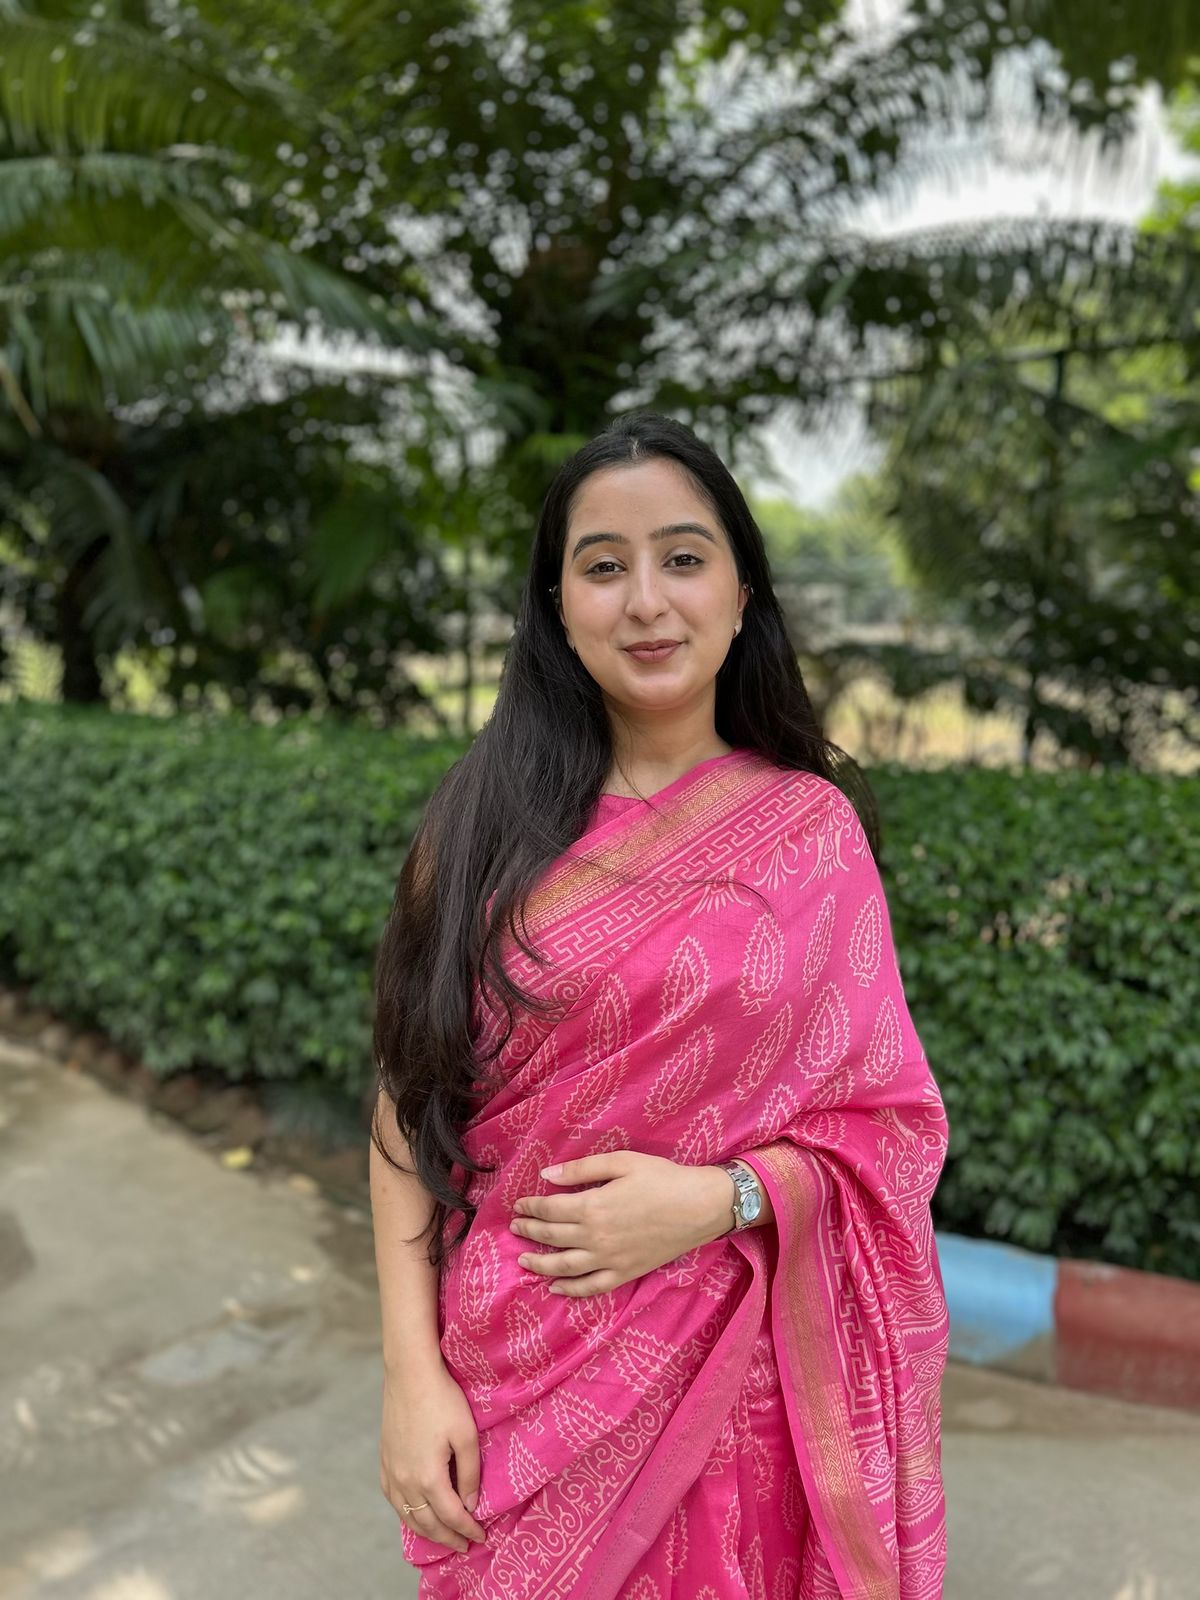
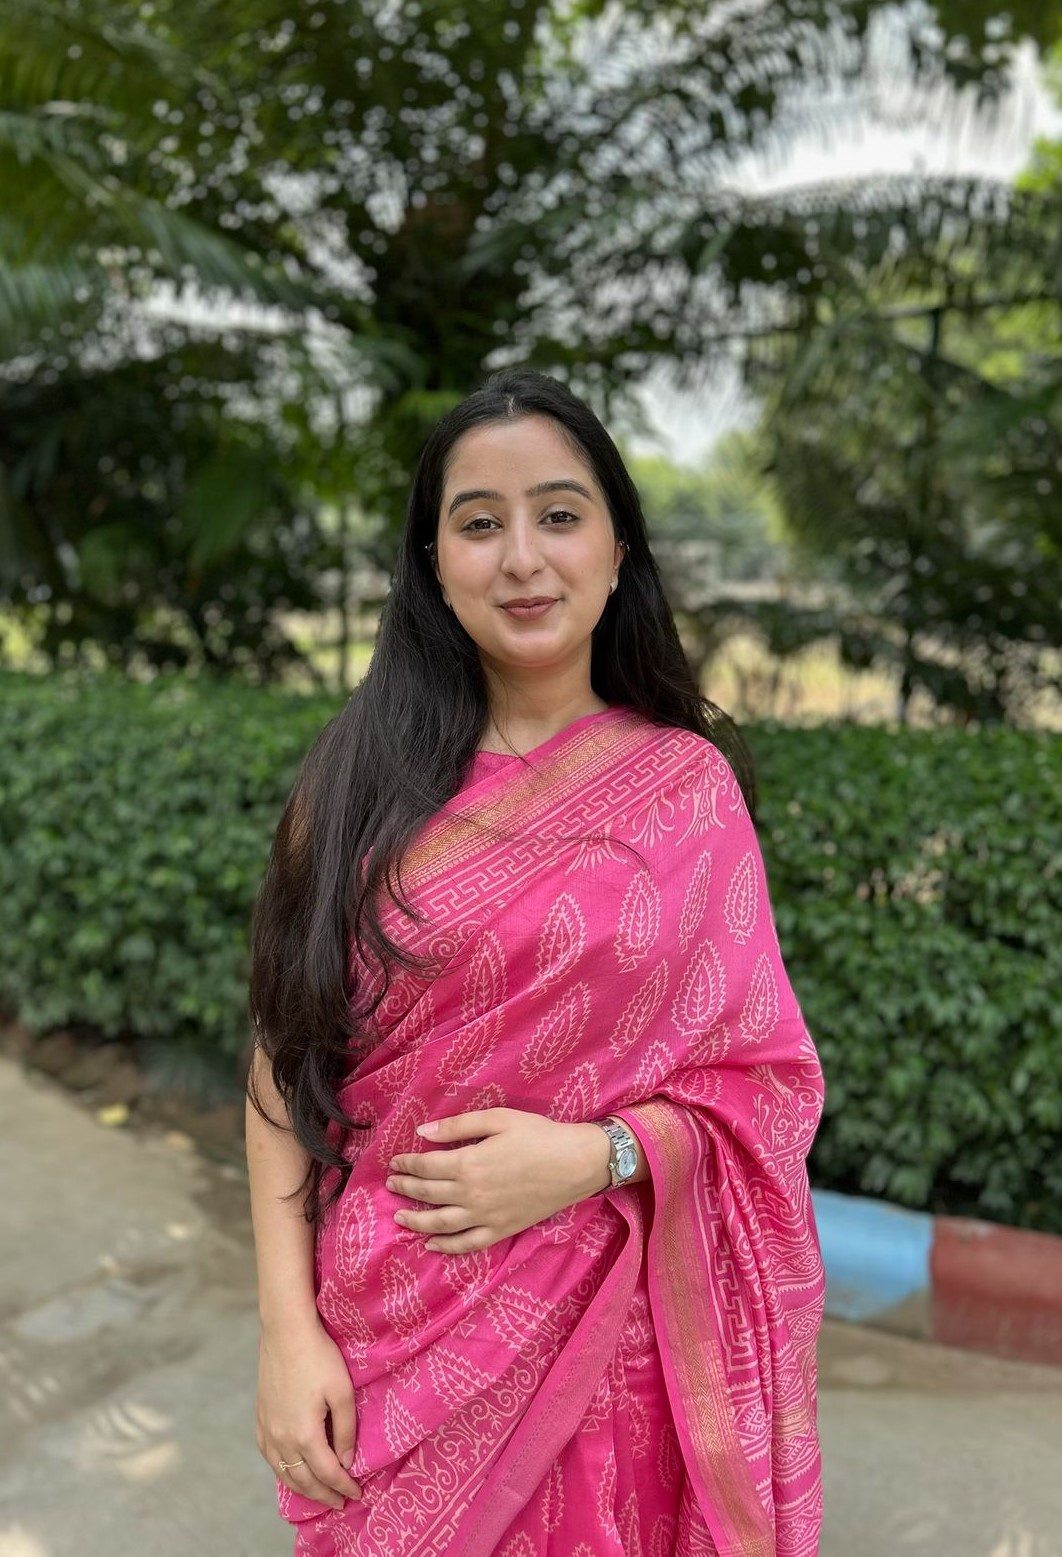
Update fonts (Great Vibes, Cormorant Garamond), imagery, and styling

diff --git a/therapy_with_himanshi/client/src/components/sections/AboutSection.tsx b/therapy_with_himanshi/client/src/components/sections/AboutSection.tsx
@@ -1,6 +1,7 @@
 import { motion } from "framer-motion";
 
 import aboutImage from "@assets/WhatsApp_Image_2025-12-11_at_00.59.14_(1)_1765616014879.jpeg";
+import shiftImage from "@assets/himanshi_1.jpeg";
 
 export function AboutSection() {
 
@@ -11,6 +12,12 @@ export function AboutSection() {
       <div className="container mx-auto px-4 md:px-6">
         {/* Intro Text */}
         <motion.div
+          // ... (omitting unchanged lines for brevity in search match, but usually better to match precise block)
+          // Actually, I'll allow multiple replacements in one go or just do two chunks.
+          // Re-reading 'replace_file_content' documentation. I can't do multiple chunks with 'replace_file_content'.
+          // I should use 'multi_replace_file_content' if I need to change the import AND the usage, as they are far apart.
+          // Import is at line 3. Usage is at line 47.
+          // So I will use `multi_replace_file_content`.
           initial={{ opacity: 0, y: 30 }}
           whileInView={{ opacity: 1, y: 0 }}
           viewport={{ once: true }}
@@ -44,7 +51,7 @@ export function AboutSection() {
           >
             <div className="relative aspect-[3/4] rounded-[2rem] overflow-hidden transition-transform duration-500 ease-out">
               <img
-                src={aboutImage}
+                src={shiftImage}
                 alt="Abstract inner landscape"
                 className="w-full h-full object-cover"
               />
@@ -65,7 +72,7 @@ export function AboutSection() {
             viewport={{ once: true }}
             transition={{ duration: 0.8, delay: 0.2 }}
           >
-            <h3 className="font-heading text-3xl md:text-4xl text-foreground">A Space for Shifts</h3>
+            <h3 className="font-display text-4xl md:text-5xl text-foreground">A Space for Shifts</h3>
             <div className="space-y-6 text-lg text-muted-foreground leading-relaxed">
               <p>
                 The intention here is twofold: to offer you a grounded, relational space to understand your inner landscape more deeply, and to support you to make the shifts you've been longing for.
@@ -87,7 +94,7 @@ export function AboutSection() {
             transition={{ duration: 0.8 }}
           >
             <span className="text-primary font-medium tracking-wide uppercase text-sm">About Me</span>
-            <h3 className="font-heading text-3xl md:text-4xl text-foreground">Himanshi Sahni <span className="text-xl text-muted-foreground font-sans font-normal">(she/her)</span></h3>
+            <h3 className="font-display text-4xl md:text-5xl text-foreground">Himanshi Sahni <span className="text-xl text-muted-foreground font-sans font-normal">(she/her)</span></h3>
 
             <div className="space-y-6 text-lg text-muted-foreground leading-relaxed">
               <p>

diff --git a/therapy_with_himanshi/client/src/index.css b/therapy_with_himanshi/client/src/index.css
@@ -1,9 +1,12 @@
+/* Import Lora, Great Vibes, and Cormorant Garamond */
+@import url('https://fonts.googleapis.com/css2?family=Cormorant+Garamond:ital,wght@0,300;0,400;0,500;0,600;0,700;1,300;1,400;1,500;1,600;1,700&family=Great+Vibes&family=Lora:ital,wght@0,400..700;1,400..700&display=swap');
 @import "tailwindcss";
 @import "tw-animate-css";
 
 @custom-variant dark (&:is(.dark *));
 
 @theme inline {
+
   --radius-sm: calc(var(--radius) - 4px);
   --radius-md: calc(var(--radius) - 2px);
   --radius-lg: var(--radius);
@@ -39,7 +42,7 @@
   --color-input: hsl(var(--input));
   --color-ring: hsl(var(--ring));
 
-  --font-sans: 'Lato', sans-serif;
+  --font-sans: 'Lora', serif;
   /* Cleaner, modern body font */
   --font-heading: 'Poppins', sans-serif;
 
@@ -65,8 +68,8 @@
   --popover: 0 0% 100%;
   --popover-foreground: 20 7% 20%;
 
-  /* Primary: User Specified Green - Darker */
-  --primary: 120 29% 13%;
+  /* Primary: User Specified Green - Adjusted Lighter */
+  --primary: 120 29% 25%;
   --primary-foreground: 0 0% 98%;
 
   /* Secondary: Soft Earth/Beige - Natural warmth */
@@ -92,7 +95,7 @@
 
   --radius: 1rem;
 
-  --font-sans: 'Lato', sans-serif;
+  --font-sans: 'Lora', serif;
   --font-heading: 'Poppins', sans-serif;
 }
 
@@ -111,7 +114,8 @@
   }
 
   body {
-    @apply font-sans antialiased bg-background text-foreground transition-colors duration-300;
+    font-family: 'Lora', serif;
+    @apply antialiased bg-background text-foreground transition-colors duration-300;
   }
 
   h1,
@@ -125,6 +129,14 @@
 }
 
 /* Utility classes */
+/* Define local font */
+@font-face {
+  font-family: 'Snell Roundhand';
+  src: url('@/assets/fonts/Snell-BT-Regular.otf') format('opentype');
+  font-weight: normal;
+  font-style: normal;
+}
+
 @layer utilities {
   .bg-gradient-soft {
     background: linear-gradient(180deg, hsl(340, 85%, 95%) 0%, hsl(var(--background)) 100%);
@@ -155,5 +167,13 @@
 
   .shadow-premium {
     box-shadow: 0 10px 30px -10px rgba(0, 0, 0, 0.05), 0 4px 15px -5px rgba(0, 0, 0, 0.02);
+  }
+
+  .font-script {
+    font-family: "Great Vibes", "Snell Roundhand", cursive;
+  }
+
+  .font-display {
+    font-family: "Cormorant Garamond", serif;
   }
 }

diff --git a/therapy_with_himanshi/client/src/components/sections/Hero.tsx b/therapy_with_himanshi/client/src/components/sections/Hero.tsx
@@ -1,31 +1,24 @@
 import { Button } from "@/components/ui/button";
 import { motion } from "framer-motion";
 import { Link } from "wouter";
-import heroBg from "@assets/hero_bg.png";
+
 
 export function Hero() {
 
   return (
     <section className="relative min-h-[calc(100vh-80px)] mt-[80px] flex items-center overflow-hidden">
-      {/* Background image with blur */}
-      <div className="absolute inset-0 w-full h-full">
-        <div 
-          className="absolute inset-0 w-full h-full bg-cover bg-center blur-sm scale-105"
-          style={{ backgroundImage: `url(${heroBg})` }}
-        />
-        {/* Overlay for text readability */}
-        <div className="absolute inset-0 bg-white/60 backdrop-blur-[2px]" />
-      </div>
+      {/* Plain white background */}
+      <div className="absolute inset-0 w-full h-full bg-white" />
 
       <div className="container mx-auto px-4 md:px-6 py-12 md:py-0">
         <div className="flex items-center justify-center min-h-[calc(100vh-200px)]">
-          
+
           {/* Centered Content */}
           <motion.div
             initial={{ opacity: 0, y: 20 }}
             animate={{ opacity: 1, y: 0 }}
             transition={{ duration: 0.8, ease: "easeOut" }}
-            className="flex flex-col items-center text-center space-y-8 z-10 max-w-4xl"
+            className="flex flex-col items-center text-center space-y-6 z-10 max-w-4xl"
           >
             <h1 className="font-heading leading-[1.1] text-foreground">
               <motion.span

diff --git a/therapy_with_himanshi/client/src/components/ui/Preloader.tsx b/therapy_with_himanshi/client/src/components/ui/Preloader.tsx
@@ -35,15 +35,14 @@ export function Preloader() {
                     />
                 </motion.div>
 
-                <div className="h-8 overflow-hidden">
+                <div className="h-20 flex items-center justify-center overflow-visible">
                     <AnimatePresence>
                         {showText && (
                             <motion.h2
                                 initial={{ opacity: 0, y: 20 }}
                                 animate={{ opacity: 1, y: 0 }}
                                 transition={{ duration: 0.8, ease: "easeOut" }}
-                                className="text-xl md:text-2xl font-medium text-primary tracking-wide"
-                                style={{ fontFamily: "'Snell Roundhand', 'Brush Script MT', cursive" }}
+                                className="font-script text-[23px] md:text-[27px] font-medium text-black tracking-wide"
                             >
                                 {tagline}
                             </motion.h2>
